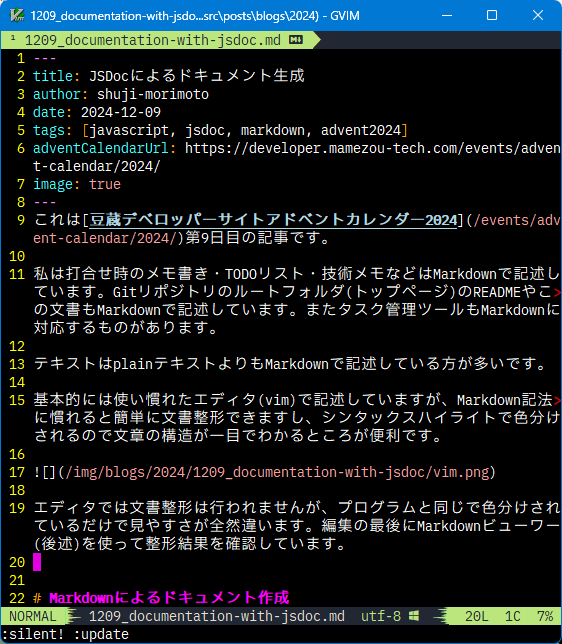
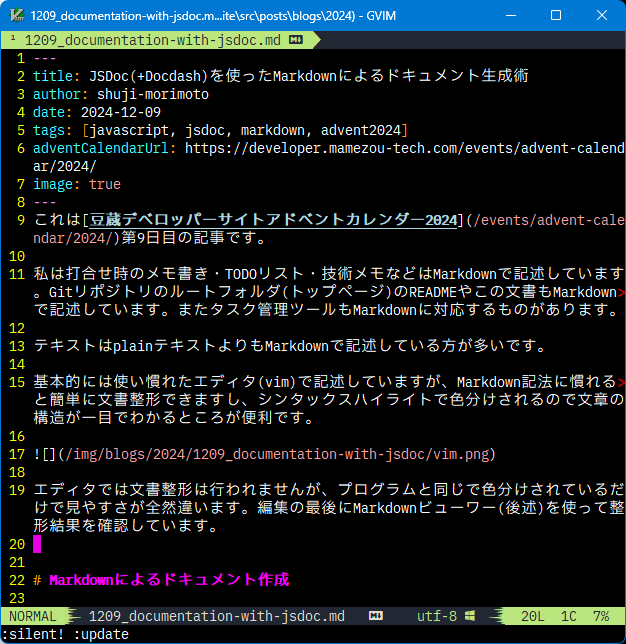
mamekaちゃんの提案によりタイトル(と画像)を変更

diff --git a/src/posts/blogs/2024/1209_documentation-with-jsdoc.md b/src/posts/blogs/2024/1209_documentation-with-jsdoc.md
@@ -1,5 +1,5 @@
 ---
-title: JSDocによるドキュメント生成
+title: JSDoc(+Docdash)を使ったMarkdownによるドキュメント生成術
 author: shuji-morimoto
 date: 2024-12-09
 tags: [javascript, jsdoc, markdown, advent2024]
